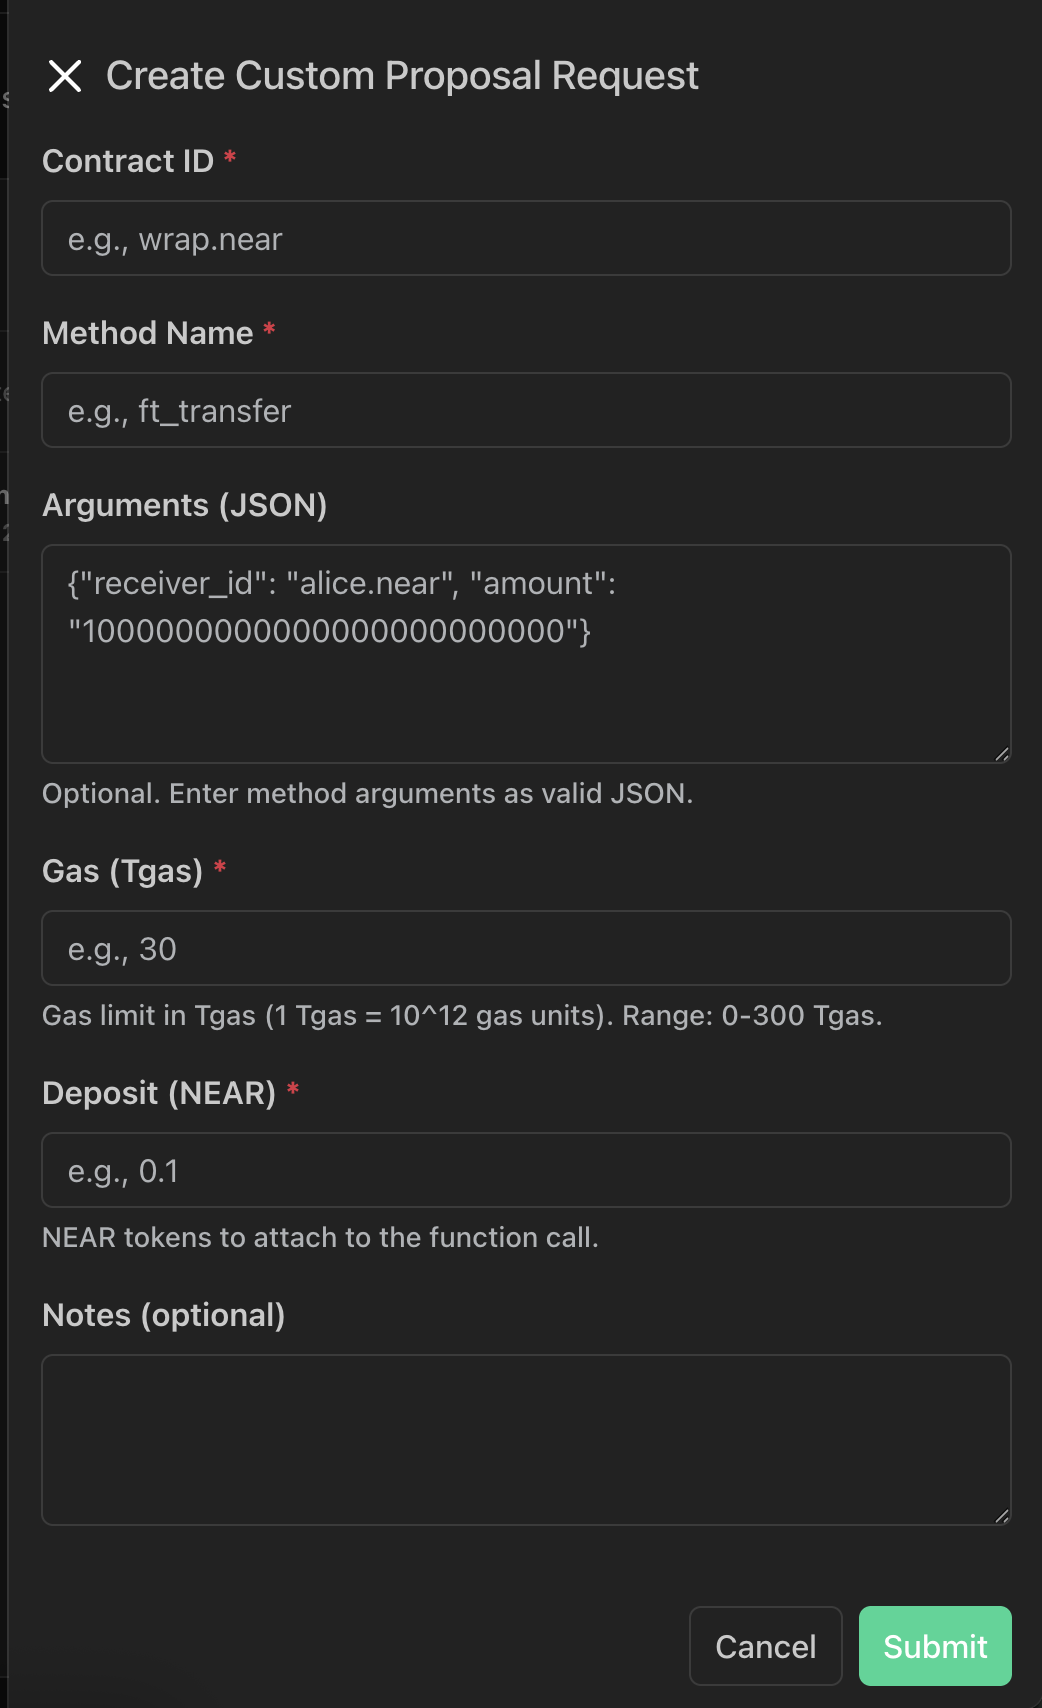
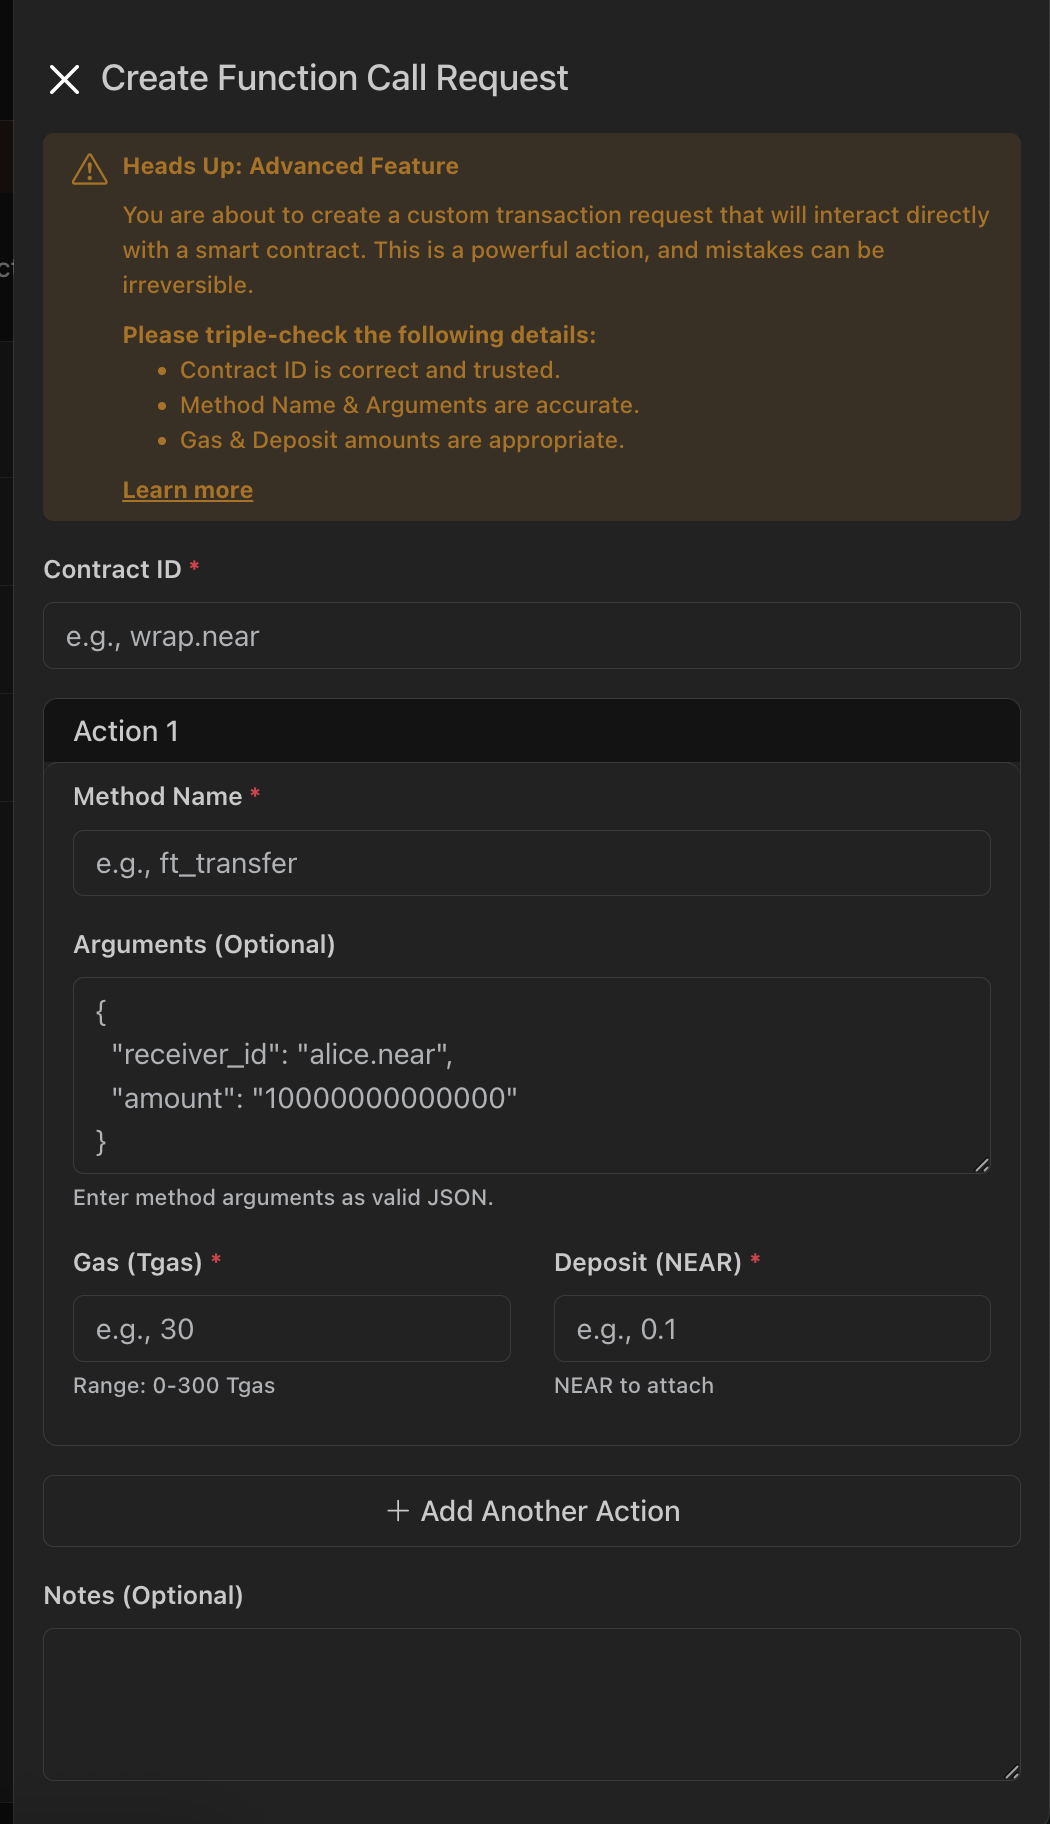
moved to advance

diff --git a/docs/advanced/function_calls.md b/docs/advanced/function_calls.md
@@ -1,7 +1,7 @@
 ---
-sidebar_position: 6
-sidebar_label: Custom Function Call
-title: Custom Function Call
+sidebar_position: 5
+sidebar_label: Function Calls
+title: Function Calls
 description: Call any contract method via a multi‑sig proposal.
 ---
 
@@ -10,12 +10,12 @@ import TabItem from '@theme/TabItem';
 
 ## Overview
 
-This section covers how to use Custom Function Calls to interact directly with any smart contract on the NEAR network. This is an advanced feature that allows the DAO to execute any contract method via a multi-sig proposal.
+This section covers how to use Function Calls to interact directly with any smart contract on the NEAR network. This is an advanced feature that allows the DAO to execute any contract method via a multi-sig proposal.
 
-::::info
+::::warning
 **This is an advanced feature for technical users.**
 
-Creating a custom transaction is a powerful action. Mistakes, such as targeting the wrong contract or using incorrect arguments, can be irreversible. It is designed for users who are comfortable interacting directly with smart contracts. Please proceed with caution.
+Creating a custom transaction request is a powerful action. Mistakes, such as targeting the wrong contract or using incorrect arguments, can be irreversible. It is designed for users who are comfortable interacting directly with smart contracts. Please proceed with caution.
 ::::
 
 ::::info
@@ -34,7 +34,7 @@ This feature is disabled by default for security. To enable it for your treasury
 
 To create a request that calls a contract method:
 
-1.  Navigate to the **`Custom Proposals`** section.
+1.  Navigate to the **`Function Calls`** section.
 2.  Click the **`Create Request`** button.
 3.  Fill in the fields in the modal:
 
@@ -52,15 +52,15 @@ To create a request that calls a contract method:
     - **Deposit (NEAR)**: Optional NEAR to attach to the call when the method requires funds, e.g., storage or token transfers.
     - **Notes (optional)**: Additional context for reviewers.
 
+You can add multiple actions to the same proposal by clicking **Add another action**. All actions will execute in the listed order when the proposal is approved.
+
 4.  Submit the request for approval.
 
 <div class="screenshot">
 <img src="/img/custom/create.png" width="40%" alt="Create custom function call request" />
 </div>
 
-:::::info
-Double‑check the contract interface and argument schema before submitting. Incorrect method names or argument shapes will cause the transaction to fail at execution time.
-:::::
+Before submitting, double‑check the contract interface and argument schema. Incorrect method names or argument shapes will cause the transaction to fail at execution time.
 
 ---
 
@@ -68,8 +68,8 @@ Double‑check the contract interface and argument schema before submitting. Inc
 
 Custom function call requests require approval from authorized members according to your treasury thresholds. To review and vote on pending requests:
 
-1.  Navigate to the **`Custom Proposals`** section.
-2.  In the **`Pending Requests`** tab, locate the request and click **`Details`** to review the payload (contract, method, args, gas, deposit).
+1.  Navigate to the **`Function Calls`** section.
+2.  In the **`Pending Requests`** tab, locate the request and click **`Review Request`** to review the payload (contract, method, args, gas, deposit).
 3.  Cast your vote to **Approve** or **Reject**.
 
 <div class="screenshot">
@@ -78,9 +78,7 @@ Custom function call requests require approval from authorized members according
 
 </div>
 
-:::::tip
 Expired requests can no longer be approved. If the underlying contract method or parameters change, create a new request with the updated values.
-:::::
 
 ---
 
@@ -88,7 +86,7 @@ Expired requests can no longer be approved. If the underlying contract method or
 
 To export custom function call history to a `.csv` file:
 
-1.  Navigate to the **`Custom Proposals`** section.
+1.  Navigate to the **`Function Calls`** section.
 2.  Switch to the **`History`** tab.
 3.  Click **`Export as CSV`**.
 

diff --git a/docs/changelog.md b/docs/changelog.md
@@ -1,5 +1,5 @@
 ---
-sidebar_position: 9
+sidebar_position: 10
 sidebar_label: "Changelog"
 title: Latest Changes
 description: Latest changes and updates on NEAR Treasury.
@@ -27,7 +27,6 @@ This section tracks the evolution of NEAR Treasury: find out what's new, what's 
 - Updated wallet selector in Web4 to the latest version. Added support for Intear, Hot, and NEAR Mobile wallets, and removed support for Here wallet.
 - Added a timezone selector in Settings → Preferences, allowing users to choose their timezone and time format, with standardized date displays across NEAR Treasury.
 - Added filter options in the Settings page — users can now filter by proposal type, creation date, status, approver, and creator.
-
 
 **Bug Fixes 🐛**
 

diff --git a/docs/settings.md b/docs/settings.md
@@ -1,5 +1,5 @@
 ---
-sidebar_position: 5
+sidebar_position: 6
 sidebar_label: "Settings"
 title: Settings
 description: Configure your NEAR Treasury dashboard.
